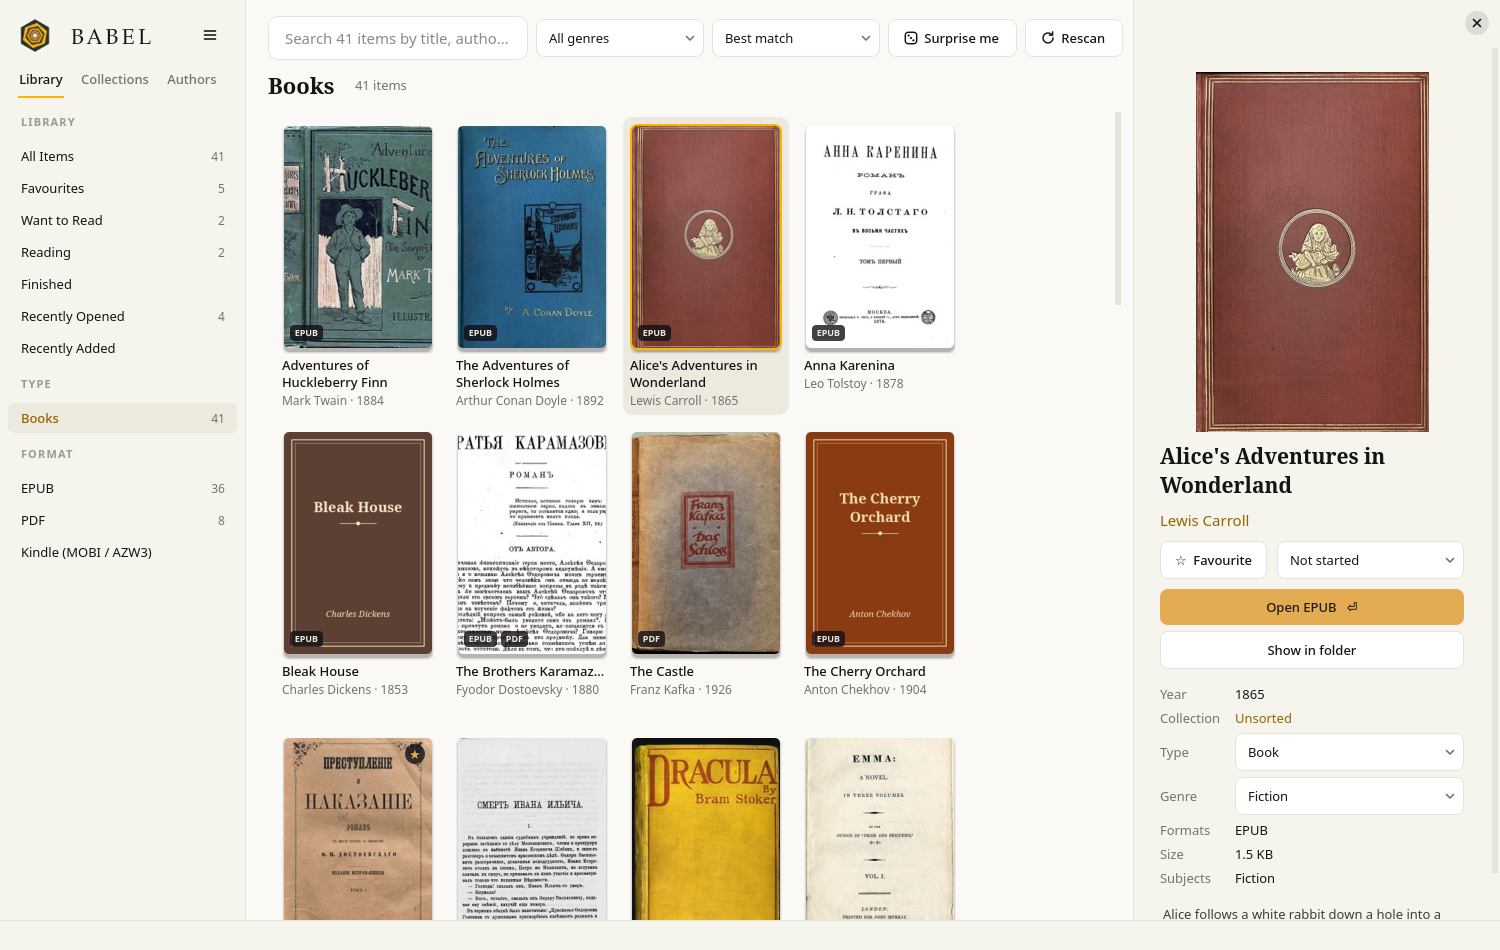
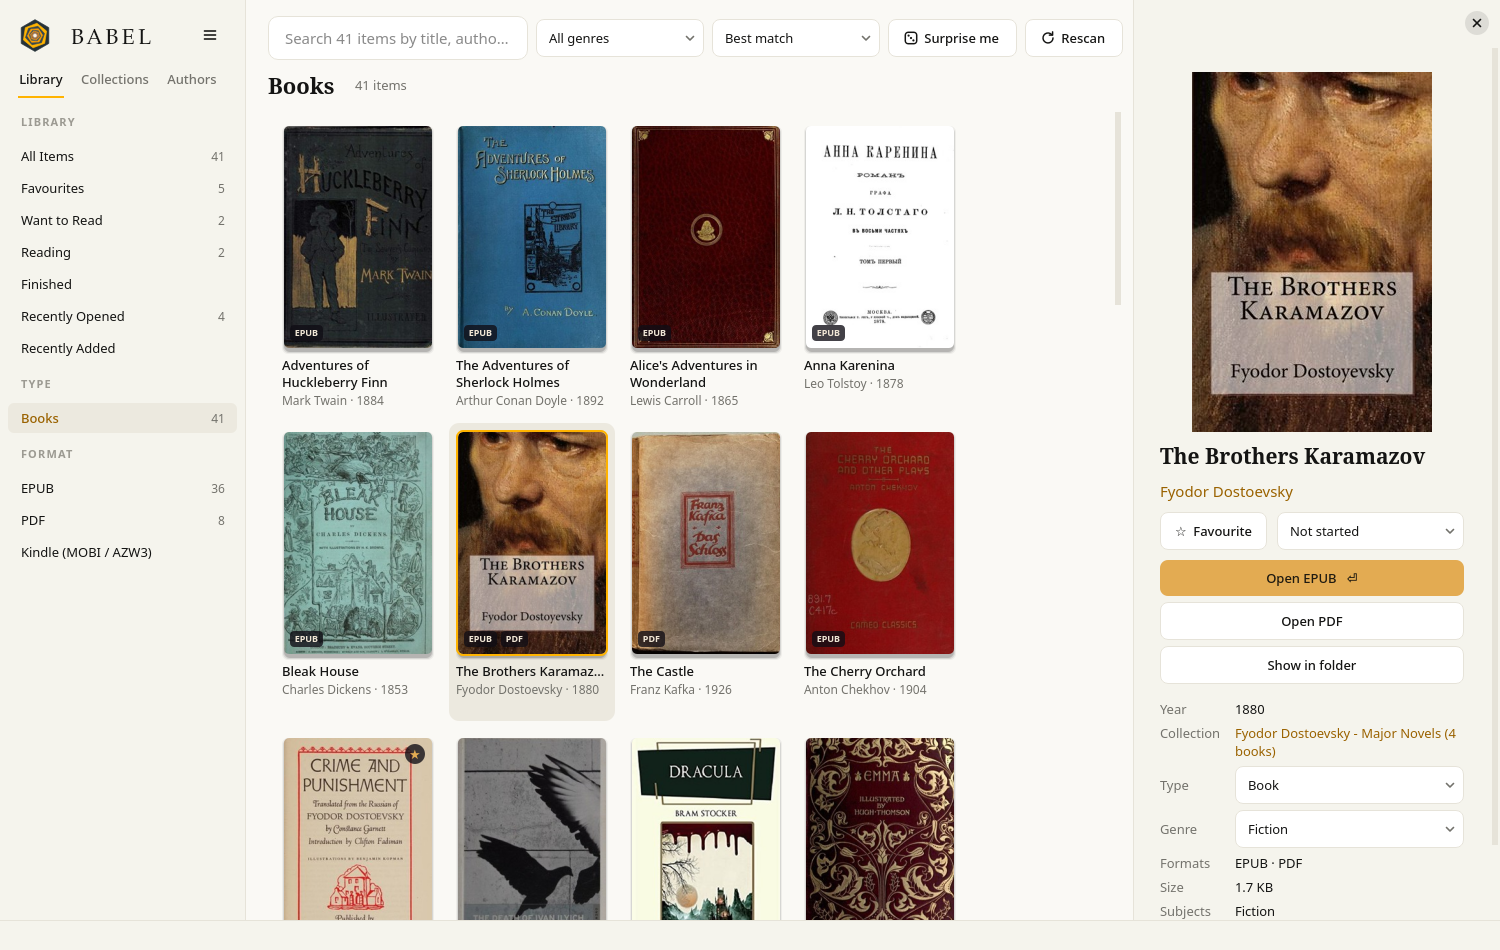
Screenshots: real book covers from Open Library
The demo library now shows real edition covers from the Open Library
Covers API (36 books), with public-domain scans from Wikimedia Commons
for the rest. docs/CREDITS.md lists every source.

diff --git a/docs/CREDITS.md b/docs/CREDITS.md
@@ -1,37 +1,59 @@
 # Image credits
 
-The screenshots in this repository show a demo library of public-domain classics. The book covers in them are scans of early editions from [Wikimedia Commons](https://commons.wikimedia.org), each marked public domain there. Books without a suitable scan use covers drawn for the demo.
+The screenshots show a demo library of public-domain classics (placeholder files, not the books).
 
-| Book | Image on Wikimedia Commons | Licence |
+## Covers from Open Library
+
+Via the [Open Library Covers API](https://openlibrary.org/dev/docs/api/covers). Cover designs remain the property of their publishers and artists; they appear here only to illustrate how Babel displays a library.
+
+| Book | Open Library work |
+|---|---|
+| A Tale of Two Cities | [A Tale of Two Cities](https://openlibrary.org/works/OL8193465W) |
+| Adventures of Huckleberry Finn | [Adventures of Huckleberry Finn](https://openlibrary.org/works/OL53908W) |
+| Alice's Adventures in Wonderland | [Alice's Adventures in Wonderland](https://openlibrary.org/works/OL138052W) |
+| Bleak House | [Bleak House](https://openlibrary.org/works/OL14868510W) |
+| Crime and Punishment | [Crime and Punishment](https://openlibrary.org/works/OL45018229W) |
+| Dracula | [Dracula](https://openlibrary.org/works/OL85892W) |
+| Emma | [Emma](https://openlibrary.org/works/OL66513W) |
+| Frankenstein | [Frankenstein; or, The Modern Prometheus](https://openlibrary.org/works/OL450063W) |
+| Great Expectations | [Great Expectations](https://openlibrary.org/works/OL8721462W) |
+| Hamlet | [Hamlet](https://openlibrary.org/works/OL9170454W) |
+| Jane Eyre | [Jane Eyre](https://openlibrary.org/works/OL1095427W) |
+| Leaves of Grass | [Leaves of Grass](https://openlibrary.org/works/OL16333W) |
+| Meditations | [Meditations](https://openlibrary.org/works/OL1317211W) |
+| Middlemarch | [Middlemarch](https://openlibrary.org/works/OL20867W) |
+| Moby-Dick | [Moby Dick](https://openlibrary.org/works/OL102749W) |
+| Mrs Dalloway | [Mrs. Dalloway](https://openlibrary.org/works/OL39349W) |
+| Notes from Underground | [Dostoyevsky. Notes From Underground / White Nights / The Dream of a Ridiculous Man / Selections from The House of the Dead](https://openlibrary.org/works/OL166934W) |
+| Oliver Twist | [Oliver Twist](https://openlibrary.org/works/OL8193478W) |
+| On the Origin of Species | [On the origin of species by means of natural selection](https://openlibrary.org/works/OL515051W) |
+| Persuasion | [Persuasion](https://openlibrary.org/works/OL66544W) |
+| Pride and Prejudice | [Pride and Prejudice](https://openlibrary.org/works/OL66554W) |
+| Sense and Sensibility | [Sense and Sensibility](https://openlibrary.org/works/OL66562W) |
+| The Adventures of Sherlock Holmes | [The Adventures of Sherlock Holmes [12 stories]](https://openlibrary.org/works/OL262421W) |
+| The Brothers Karamazov | [The Brothers Karamazov](https://openlibrary.org/works/OL24600223W) |
+| The Cherry Orchard | [The cherry orchard & other plays (Вишнёвый сад / Медведь / Чайка / Юбилей)](https://openlibrary.org/works/OL55491W) |
+| The Death of Ivan Ilyich | [The death of Ivan Ilyich and The devil](https://openlibrary.org/works/OL16563010W) |
+| The Idiot | [The Idiot](https://openlibrary.org/works/OL20906897W) |
+| The Metamorphosis | [The Metamorphosis and Other Stories](https://openlibrary.org/works/OL15176533W) |
+| The Odyssey | [The Odyssey](https://openlibrary.org/works/OL26446888W) |
+| The Picture of Dorian Gray | [The Picture of Dorian Gray](https://openlibrary.org/works/OL8193416W) |
+| The Republic | [The Republic of Plato--Books I.-V.](https://openlibrary.org/works/OL380265W) |
+| The Tenant of Wildfell Hall | [The Tenant of Wildfell Hall](https://openlibrary.org/works/OL260101W) |
+| The Trial | [The Trial](https://openlibrary.org/works/OL43043884W) |
+| Ulysses | [Ulysses](https://openlibrary.org/works/OL86318W) |
+| War and Peace | [War and Peace](https://openlibrary.org/works/OL267171W) |
+| Wuthering Heights | [Wuthering Heights](https://openlibrary.org/works/OL21177W) |
+
+## Public-domain scans from Wikimedia Commons
+
+| Book | Image | Licence |
 |---|---|---|
-| A Tale of Two Cities | [Cover for A Tale of Two Cities, by Phiz.jpeg](https://commons.wikimedia.org/wiki/File:Cover_for_A_Tale_of_Two_Cities,_by_Phiz.jpeg) | Public domain |
-| Adventures of Huckleberry Finn | [E. W. Kemble - Adventures of Huckleberry Finn Cover.jpg](https://commons.wikimedia.org/wiki/File:E._W._Kemble_-_Adventures_of_Huckleberry_Finn_Cover.jpg) | Public domain |
-| Alice's Adventures in Wonderland | [Alice's Adventures in Wonderland cover (1865).jpg](https://commons.wikimedia.org/wiki/File:Alice%27s_Adventures_in_Wonderland_cover_(1865).jpg) | Public domain |
 | Anna Karenina | [AnnaKareninaTitle.jpg](https://commons.wikimedia.org/wiki/File:AnnaKareninaTitle.jpg) | Public domain |
-| Crime and Punishment | [Cover of the first edition of Crime and Punishment.jpg](https://commons.wikimedia.org/wiki/File:Cover_of_the_first_edition_of_Crime_and_Punishment.jpg) | Public domain |
-| Dracula | [Dracula-First-Edition-1897.jpg](https://commons.wikimedia.org/wiki/File:Dracula-First-Edition-1897.jpg) | Public domain |
-| Emma | [EmmaTitlePage.jpg](https://commons.wikimedia.org/wiki/File:EmmaTitlePage.jpg) | Public domain |
-| Frankenstein | [Frankenstein 1818 edition title page.jpg](https://commons.wikimedia.org/wiki/File:Frankenstein_1818_edition_title_page.jpg) | Public domain |
-| Great Expectations | [Dickens Great Expectations title page.jpg](https://commons.wikimedia.org/wiki/File:Dickens_Great_Expectations_title_page.jpg) | Public domain |
-| Hamlet | [Hamlet Q1 Frontispiece 1603.jpg](https://commons.wikimedia.org/wiki/File:Hamlet_Q1_Frontispiece_1603.jpg) | Public domain |
-| Jane Eyre | [Jane Eyre title page.jpg](https://commons.wikimedia.org/wiki/File:Jane_Eyre_title_page.jpg) | Public domain |
-| Leaves of Grass | [Leaves of Grass (1855) cover.jpg](https://commons.wikimedia.org/wiki/File:Leaves_of_Grass_(1855)_cover.jpg) | Public domain |
-| Middlemarch | [Middlemarch 1.jpg](https://commons.wikimedia.org/wiki/File:Middlemarch_1.jpg) | Public domain |
-| Moby-Dick | [Moby-Dick FE title page.jpg](https://commons.wikimedia.org/wiki/File:Moby-Dick_FE_title_page.jpg) | Public domain |
-| Oliver Twist | [Oliver Twist-Vol 3-0009.jpg](https://commons.wikimedia.org/wiki/File:Oliver_Twist-Vol_3-0009.jpg) | Public domain |
-| On the Origin of Species | [Origin of Species 1859 title page.jpg](https://commons.wikimedia.org/wiki/File:Origin_of_Species_1859_title_page.jpg) | Public domain |
-| Persuasion | [Northanger Abbey and Persuasion.jpg](https://commons.wikimedia.org/wiki/File:Northanger_Abbey_and_Persuasion.jpg) | Public domain |
 | Poems, First Series | [Poems by Emily Dickinson, Cover.png](https://commons.wikimedia.org/wiki/File:Poems_by_Emily_Dickinson,_Cover.png) | Public domain |
 | Poems, Second Series | [Emily Dickinson Poems - Second Series.jpg](https://commons.wikimedia.org/wiki/File:Emily_Dickinson_Poems_-_Second_Series.jpg) | Public domain |
-| Pride and Prejudice | [PrideAndPrejudiceTitlePage.jpg](https://commons.wikimedia.org/wiki/File:PrideAndPrejudiceTitlePage.jpg) | Public domain |
-| Sense and Sensibility | [SenseAndSensibilityTitlePage.jpg](https://commons.wikimedia.org/wiki/File:SenseAndSensibilityTitlePage.jpg) | Public domain |
-| The Adventures of Sherlock Holmes | [Adventures of sherlock holmes.jpg](https://commons.wikimedia.org/wiki/File:Adventures_of_sherlock_holmes.jpg) | Public domain |
-| The Brothers Karamazov | [Dostoevsky-Brothers Karamazov.jpg](https://commons.wikimedia.org/wiki/File:Dostoevsky-Brothers_Karamazov.jpg) | Public domain |
 | The Castle | [Kafka Das Schloss 1926.jpg](https://commons.wikimedia.org/wiki/File:Kafka_Das_Schloss_1926.jpg) | Public domain |
-| The Death of Ivan Ilyich | [The Death of Ivan Ilyich.jpg](https://commons.wikimedia.org/wiki/File:The_Death_of_Ivan_Ilyich.jpg) | Public domain |
-| The Picture of Dorian Gray | [The title card of an 1891 print of The Picture of Dorian Gray, by Oscar Wilde.png](https://commons.wikimedia.org/wiki/File:The_title_card_of_an_1891_print_of_The_Picture_of_Dorian_Gray,_by_Oscar_Wilde.png) | Public domain |
-| The Tenant of Wildfell Hall | [The Tenant of Wildfell Hall American Edition.png](https://commons.wikimedia.org/wiki/File:The_Tenant_of_Wildfell_Hall_American_Edition.png) | Public domain |
-| War and Peace | [Tolstoy - War and Peace - first edition, 1869.jpg](https://commons.wikimedia.org/wiki/File:Tolstoy_-_War_and_Peace_-_first_edition,_1869.jpg) | Public domain |
-| Wuthering Heights | [Houghton Lowell 1238.5 (A) - Wuthering Heights, 1847.jpg](https://commons.wikimedia.org/wiki/File:Houghton_Lowell_1238.5_(A)_-_Wuthering_Heights,_1847.jpg) | Public domain |
+
+One book (*Symposium*) uses a cover drawn for the demo.
 
 The Babel icon and interface are part of this project (GPL-3.0-or-later).

diff --git a/README.md b/README.md
@@ -18,9 +18,9 @@ Named after Jorge Luis Borges' story *The Library of Babel*.
 <p align="center"><img src="docs/preferences.png" width="640" alt="Babel's Preferences window"></p>
 </details>
 
-<sub>Screenshots show a demo library of public-domain classics. The covers are early editions
-from Wikimedia Commons, all public domain ([credits](docs/CREDITS.md)); a few books use stand-in covers.
-With your own books, Babel shows each book's real cover.</sub>
+<sub>Screenshots show a demo library of public-domain classics, with covers from
+Open Library and Wikimedia Commons ([credits](docs/CREDITS.md)).
+With your own books, Babel shows each book's own cover.</sub>
 
 ## Features
 
